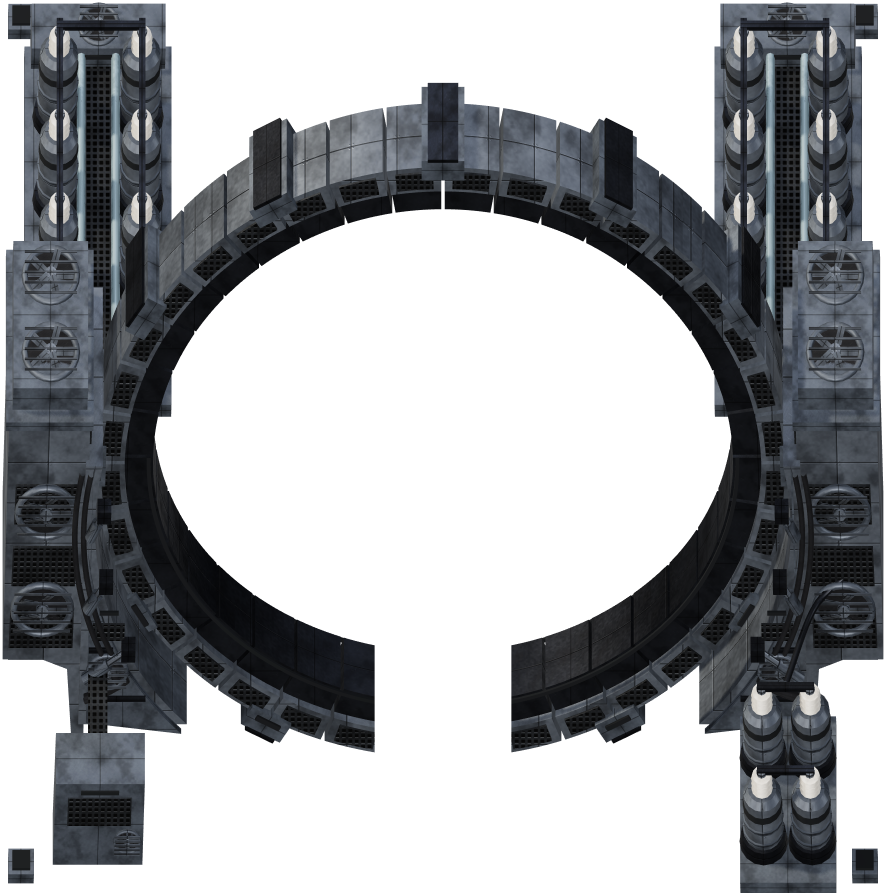
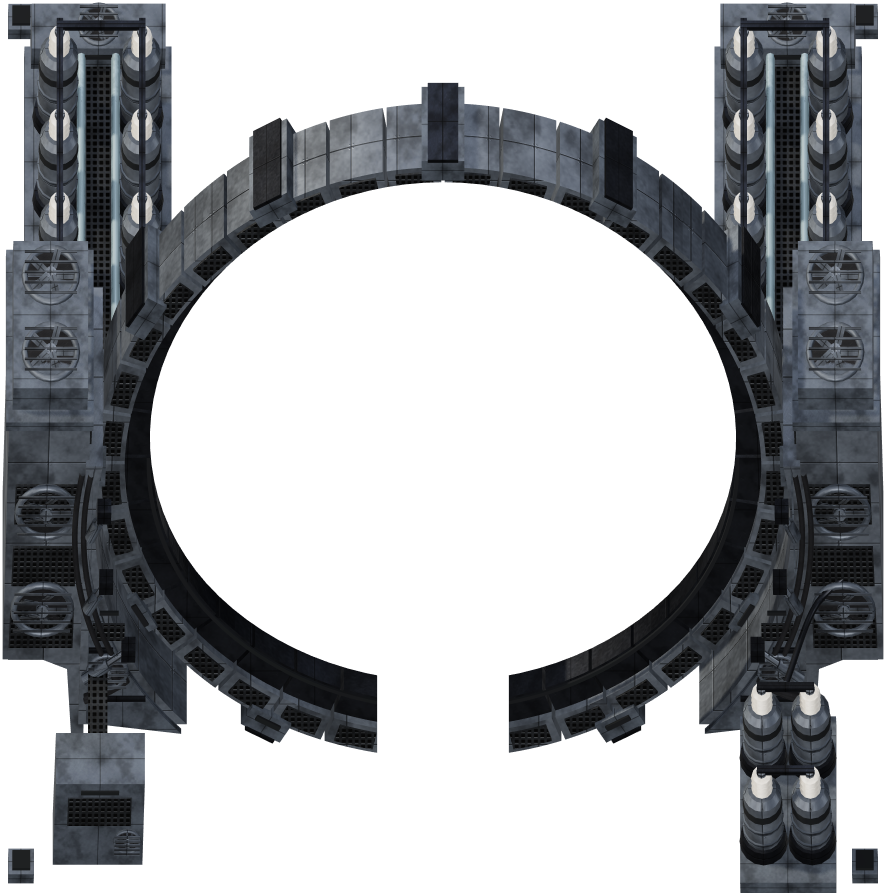
Stargate: station track look, veil and carriage flash fixes, direction chevrons, gate lights

Changed region(s): [[0.1524, 0.181, 0.8533, 0.8447]]

diff --git a/tools/sprites/lib/stargate-parts.js b/tools/sprites/lib/stargate-parts.js
@@ -81,10 +81,10 @@ export async function materials() {
     // The bed under the track: riveted dark steel deck plates, with grating between the rails.
     ballast: textured({ color: 0x2c2f34, panels: 3, rivets: true, grime: 0.3, scratches: 0.4, scale: 1, metalness: 0.65, roughness: 0.45, seed: 93 }),
     ballastInner: textured({ color: 0x383c42, holes: 10, grime: 0.3, scale: 1.2, metalness: 0.6, roughness: 0.5, seed: 94 }),
-    sleeper: textured({ color: 0x6f5426, grime: 0.45, scratches: 0.7, scale: 0.6, metalness: 0, roughness: 0.85, seed: 95 }),
+    sleeper: textured({ color: 0x55585c, grime: 0.45, scratches: 0.7, scale: 0.6, metalness: 0, roughness: 0.85, seed: 95 }),
     backplate: textured({ color: 0x77736e, grime: 0.4, rust: 0.2, scale: 1, metalness: 0.5, roughness: 0.6, seed: 96 }),
     // Matte enough that no rail catches a bright reflection where the light hits it.
-    rail: Object.assign(textured({ color: 0x7e8286, grime: 0.15, scratches: 0.3, scale: 1, metalness: 0.4, roughness: 0.7, seed: 97 }), { envMapIntensity: 0.4 }),
+    rail: Object.assign(textured({ color: 0x5f9cc0, grime: 0.15, scratches: 0.3, scale: 1, metalness: 0.4, roughness: 0.7, seed: 97 }), { envMapIntensity: 0.4 }),
     redSteel: textured({ color: 0x5e221c, panels: 1, grime: 0.4, rust: 0.1, scratches: 0.35, scale: 1, metalness: 0.45, roughness: 0.55, seed: 99 }),
     frost: textured({ color: 0xa9c4cf, panels: 1, grime: 0.15, scratches: 0.2, scale: 1, metalness: 0.55, roughness: 0.3, seed: 91 }),
     glow: Object.assign(new THREE.MeshStandardMaterial({ color: 0x0c2b33, emissive: CYAN, emissiveIntensity: 1.4, roughness: 0.4 }), {
@@ -316,8 +316,11 @@ const GAUGE = 0.5625;
 
 // The track's height on its ramp: level with the ground at the gate's edge, rising gently to
 // RAMP_TOP at the ring, so it crosses the basin and the ring's lower arc above them.
-const RAMP_TOP = 0.45;
-const trackHeight = (z) => lerp(GROUND, RAMP_TOP, (HALF - z) / (HALF - TRACK_END));
+const RAMP_TOP = DECK + 0.05;
+const trackHeight = (z) => lerp(GROUND, RAMP_TOP, Math.min(1, (HALF - z) / (HALF - TRACK_END)));
+// Where the track ends behind the ring: level at RAMP_TOP through the ring and on behind it, far
+// enough that the ring's upper part hides its end on screen.
+const TRACK_FAR = RING_Z - 5.406;
 
 /**
  * Track along lane `x` after the game's rail ramps, tagged `userData.track = x`: a riveted steel deck
@@ -327,11 +330,12 @@ const trackHeight = (z) => lerp(GROUND, RAMP_TOP, (HALF - z) / (HALF - TRACK_END
  * rails join it, over the basin and the ring's lower arc into the ring.
  */
 function laneTrack(root, m, x) {
-  // Unshadowed, so both lanes look alike: in game the gate's shadow layer falls over the track anyway.
-  const add = (mesh) => { mesh.userData.track = x; mesh.userData.unshadowed = true; return mesh; };
+  // Its own layer is rendered with the building hidden (models/stargate.js), so the track shades only
+  // itself and both lanes look alike: in game the gate's shadow layer falls over it anyway.
+  const add = (mesh) => { mesh.userData.track = x; return mesh; };
   const step = 0.25;
   const base = (z) => Math.min(floorHeight(x, z), trackHeight(z)) - 0.05;
-  for (let z = TRACK_END; z < HALF - 0.001; z += step) {
+  for (let z = TRACK_FAR; z < HALF - 0.001; z += step) {
     const zc = z + step / 2;
     const top = trackHeight(zc);
     // The core under the track, set back between the trusses so it reads as shadowed structure.
@@ -341,7 +345,7 @@ function laneTrack(root, m, x) {
   // wide with a raised inner bed 1.15 wide, ties 1.5 long and 0.16 thick every 0.406, backplates and
   // rail heads 0.5625 either side of the centre.
   const along = (top, w, h, material) => {
-    for (let z = TRACK_END; z < HALF - 0.001; z += step) {
+    for (let z = TRACK_FAR; z < HALF - 0.001; z += step) {
       const zc = z + step / 2;
       add(part(root, new THREE.BoxGeometry(w, h, step + 0.01), material, [x, trackHeight(zc) + top - h / 2, zc]));
     }
@@ -351,21 +355,21 @@ function laneTrack(root, m, x) {
   // Steel lips along the deck's edges, with a cyan marker stud every tile.
   for (const side of [-1, 1]) {
     const lip = [];
-    for (let z = TRACK_END; z <= HALF + 0.001; z += 0.25) lip.push([x + side * 0.98, trackHeight(z) + 0.07, z]);
+    for (let z = TRACK_FAR; z <= HALF + 0.001; z += 0.25) lip.push([x + side * 0.98, trackHeight(z) + 0.07, z]);
     add(tube(root, lip, 0.04, m.plate, 48));
-    for (let z = HALF - 0.5; z > TRACK_END + 0.3; z -= 1) {
+    for (let z = HALF - 0.5; z > TRACK_FAR + 0.3; z -= 1) {
       add(part(root, new THREE.BoxGeometry(0.08, 0.03, 0.14), m.glow, [x + side * 0.86, trackHeight(z) + 0.065, z]));
     }
   }
   // From the gate's edge inwards, the first tie flush with it; tall enough to read as blocks with
   // shaded sides.
-  for (let z = HALF - 0.08; z > TRACK_END + 0.08; z -= 0.406) {
+  for (let z = HALF - 0.08; z > TRACK_FAR + 0.08; z -= 0.406) {
     add(part(root, new THREE.BoxGeometry(1.5, 0.1, 0.16), m.sleeper, [x, trackHeight(z) + 0.1, z]));
   }
   for (const dx of [-GAUGE, GAUGE]) {
     const plates = [], heads = [];
     // Run a little past the edge: raised above the deck, they would otherwise end short of it on screen.
-    for (let z = TRACK_END; z <= HALF + 0.21; z += 0.25) {
+    for (let z = TRACK_FAR; z <= HALF + 0.21; z += 0.25) {
       plates.push([x + dx, trackHeight(z) + 0.13, z]);
       heads.push([x + dx, trackHeight(z) + 0.17, z]);
     }
@@ -373,12 +377,13 @@ function laneTrack(root, m, x) {
     add(tube(root, heads, 0.035, m.rail, 64));
   }
   // The side trusses: a top chord level with the ballast, a bottom chord on the floor, posts every
-  // tile, and a diagonal in each bay.
-  for (const dx of [-1, 1]) {
+  // tile, and a diagonal in each bay. Off while trying the track without them.
+  const TRUSSES = false;
+  for (const dx of TRUSSES ? [-1, 1] : []) {
     const sx = x + dx;
     const chord = (y) => {
       const points = [];
-      for (let z = TRACK_END; z <= HALF - 0.6 + 0.001; z += 0.25) points.push([sx, y(z), z]);
+      for (let z = TRACK_FAR; z <= HALF - 0.6 + 0.001; z += 0.25) points.push([sx, y(z), z]);
       add(tube(root, points, 0.07, m.redSteel, 48));
     };
     chord((z) => trackHeight(z) + 0.06);
@@ -396,8 +401,36 @@ function laneTrack(root, m, x) {
   }
 }
 
+// Direction chevrons for a two-track station: low steel plates on the concrete either side of each
+// lane, pointing the way its trains run. Tagged `userData.chevrons` with the layout they belong to:
+// "right" has trains leave on the east lane (x = +2) and arrive on the west, "left" the reverse
+// (stargate/scripts/railway.lua LAYOUTS).
+const CHEVRON = { offset: 1.32, arm: 0.3, width: 0.08, height: 0.07, rows: [6.45, 5.45, 4.6] };
+function chevrons(root, m) {
+  for (const layout of ["right", "left"]) {
+    for (const lane of TRACK_LANES.double) {
+      const departs = (lane > 0) === (layout === "right");
+      // North (-z, into the ring) on the departure lane, south on the arrival lane.
+      const dir = departs ? -1 : 1;
+      for (const side of [-1, 1]) for (const z of CHEVRON.rows) {
+        const x = lane + side * CHEVRON.offset;
+        const y = floorHeight(x, z) + CHEVRON.height / 2;
+        for (const s of [-1, 1]) {
+          // Each arm runs from the tip back and out to one side at 45 degrees, centred on the row so
+          // chevrons pointing either way line up.
+          const h = CHEVRON.arm / Math.SQRT2 / 2;
+          const mesh = part(root, new THREE.BoxGeometry(CHEVRON.arm, CHEVRON.height, CHEVRON.width), m.plate,
+            [x + s * h, y, z], [0, s * dir * Math.PI / 4, 0]);
+          mesh.userData.chevrons = layout;
+        }
+      }
+    }
+  }
+}
+
 function tracks(root, m, lanes) {
   for (const x of lanes) laneTrack(root, m, x);
+  if (lanes.some((x) => TRACK_LANES.double.includes(x))) chevrons(root, m);
 }
 
 /** Floor lights at the corners. */
@@ -663,7 +696,7 @@ export function drawSplash(root, t) {
   const image = ctx.createImageData(VEIL_SIZE, VEIL_SIZE);
   // A carriage behind the veil, about to vanish or just appeared, fills its lane's column of the
   // veil on screen from the deck nearly to the ring's top (5.2 tiles long, 1.6 high, seen at 50
-  // degrees), so the glow covers that column, a little wider than the carriage (unit disc, y down),
+  // degrees), so the glow covers that column, wider than the carriage (unit disc, y down),
   // centred a quarter of a carriage below the veil's centre, where the change shows most.
   const oy = 0.39;
   const flare = Math.exp(-(((t - 0.25) / 0.16) ** 2));
@@ -673,14 +706,16 @@ export function drawSplash(root, t) {
     for (let px = 0; px < VEIL_SIZE; px++) {
       const x = (px + 0.5) / VEIL_SIZE * 2 - 1;
       const y = (py + 0.5) / VEIL_SIZE * 2 - 1;
-      // A tall rounded column, about two tiles wide, the whole height of the veil.
-      const d = Math.hypot(x / 0.24, ((y - oy) / 0.95) ** 2);
-      let v = Math.exp(-d * d * 1.5) * (0.15 + 0.5 * flare);
-      v += Math.exp(-(((d * 0.2 - ring) / 0.035) ** 2)) * 0.45 * fade * Math.min(1, t * 6);
+      // A tall soft column whose light thins out gradually instead of ending at a visible edge.
+      const d = Math.hypot(x / 0.5, (y - oy) / 1.8);
+      const body = Math.exp(-d * d * 1.5);
+      let v = body * (0.15 + 0.5 * flare);
+      v += Math.exp(-(((d * 0.2 - ring) / 0.08) ** 2)) * 0.45 * fade * Math.min(1, t * 6) * Math.min(1, body * 4);
       v *= fade;
-      // Inside the veil only, as the carriage vanishes and appears only there.
-      const rim = Math.max(0, Math.min(1, (1 - Math.hypot(x, y)) * 40));
-      v = 1.4 * Math.tanh(v / 1.4) * rim;
+      // Inside the veil only, as the carriage vanishes and appears only there, fading out over the
+      // veil's outer quarter rather than cut at its rim.
+      const edge = Math.max(0, Math.min(1, (1 - Math.hypot(x, y)) / 0.25));
+      v = 1.4 * Math.tanh(v / 1.4) * edge * edge * (3 - 2 * edge);
       const i = (py * VEIL_SIZE + px) * 4;
       image.data[i] = Math.min(255, 255 * (0.35 * v + 0.6 * Math.max(0, v - 0.6)));
       image.data[i + 1] = Math.min(255, 255 * (0.75 * v));

diff --git a/tools/sprites/models/stargate.js b/tools/sprites/models/stargate.js
@@ -60,7 +60,7 @@ const OPENING_FRAMES = 30;
 const CLOSING_FRAMES = 18;
 // The passage plays once over two loops (128 ticks in game, scripts/transfer.lua TRANSIT_TICKS).
 const PASSAGE_FRAMES = 32;
-const SPLASH_FRAMES = 16;
+const SPLASH_FRAMES = 32;
 
 export default {
   tiles: [14, 14],
@@ -91,6 +91,9 @@ export default {
     // (stargate/scripts/railway.lua); hidden from every other layer.
     { name: "rails-single", tag: "rails", variant: "rails-single", frames: 1 },
     { name: "rails-double", tag: "rails", variant: "rails-double", frames: 1 },
+    // The two-track station's direction chevrons, one picture per layout, drawn over its track.
+    { name: "chevrons-right", tag: "rails", variant: "chevrons-right", frames: 1 },
+    { name: "chevrons-left", tag: "rails", variant: "chevrons-left", frames: 1 },
     // The building with the track cut out where it passes over the ring's lower arc into the ring,
     // so the track (drawn under the building) shows there: main for a station gate.
     { name: "main-single", tag: "body", variant: "body-single", frames: 1 },
@@ -100,7 +103,7 @@ export default {
     { name: "glow-lights-double", tag: "light", glow: true, variant: "lights-double", frames: 1 },
     { name: "glow-lights-red-single", tag: "light", glow: true, variant: "alarm-single", frames: 1 },
     { name: "glow-lights-red-double", tag: "light", glow: true, variant: "alarm-double", frames: 1 },
-    // One train carriage passing the veil, drawn by scripts/railway.lua at its lane, 16 frames at 2 ticks.
+    // One train carriage passing the veil, drawn by scripts/railway.lua at its lane, 32 frames at 2 ticks.
     { name: "glow-splash", tag: "veil", glow: true, variant: "splash", frames: SPLASH_FRAMES, span: 0.5 },
     // Drawn over the veil by script while someone passes through.
     { name: "glow-passage", tag: "veil", glow: true, variant: "passage", frames: PASSAGE_FRAMES, span: 2, preview: { variant: "passage" } }
@@ -156,11 +159,21 @@ export default {
       const body = String(name).startsWith("body-");
       // A station's lights: "lights-<mode>" cyan, "alarm-<mode>" red.
       const station = /^(lights|alarm)-(single|double)$/.exec(String(name));
-      if (track !== undefined) {
+      const chevrons = mesh.userData.chevrons;
+      if (chevrons !== undefined) {
+        // Only in its own layer: flat on the floor, it hides nothing in the building.
+        mesh.visible = name === `chevrons-${chevrons}`;
+        if (mesh.visible) mesh.material = mesh.userData.railMaterial ??= Object.assign(mesh.material.clone(), { userData: { tag: "rails" } });
+      } else if (String(name).startsWith("chevrons-")) {
+        mesh.visible = false;
+      } else if (track !== undefined) {
         // Shown in its own layer, and untagged in the building's and the lights', where it hides them.
         const mode = String(name).startsWith("rails-") ? String(name).slice(6) : body ? String(name).slice(5) : station?.[2];
         mesh.visible = (TRACK_LANES[mode] ?? []).includes(track);
         if (mesh.visible && !body && !station) mesh.material = mesh.userData.railMaterial ??= Object.assign(mesh.material.clone(), { userData: { tag: "rails" } });
+      } else if (String(name).startsWith("rails-")) {
+        // The track's own layer: nothing else, so no part of the building shadows it.
+        mesh.visible = false;
       } else if (station) {
         if (light) mesh.material = lightMaterial(mesh.material, station[1] === "lights" ? "cyan" : "alarm");
       } else if (body) {
@@ -183,8 +196,17 @@ export default {
         mesh.material = lightMaterial(mesh.material, String(name));
       }
     });
+    // A station gate's building is cut wherever the veil's disc lies on screen, so the open veil
+    // shows its whole oval over the track and the ring's lower arc alike, whichever the game draws
+    // first (render.js `cutsLayers`).
+    const station = /^body-(single|double)$/.test(String(name));
     root.traverse((object) => {
-      if (object.isMesh && object.userData.original?.userData.tag === "veil") object.visible = VEILS.includes(name) || name === "passage" || name === "splash";
+      if (!object.isMesh || object.userData.original?.userData.tag !== "veil") return;
+      object.visible = VEILS.includes(name) || name === "passage" || name === "splash" || station;
+      if (station) {
+        object.material = object.userData.cutMaterial ??= Object.assign(object.material.clone(), { userData: { cutsLayers: true } });
+        object.renderOrder = -10;
+      }
     });
     // The passage is drawn whole, by script.
     root.userData.veil.material.clippingPlanes = !VEILS.includes(name) ? null : name.endsWith("-high") ? topClip : lowClip;

diff --git a/tools/sprites/stargate-showcase.html b/tools/sprites/stargate-showcase.html
@@ -263,6 +263,8 @@ function frame(dt) {
   if (metas[model].sheets.floor) sheet(model, "floor");
   // Station-mode track (a companion just above the floor in game), only on the finished gate.
   if (finished && !state.building && state.rails !== "off" && metas[model].sheets[`rails-${state.rails}`]) sheet(model, `rails-${state.rails}`);
+  // Two tracks run as scripts/railway.lua's "right" layout: trains leave on the east lane.
+  if (finished && !state.building && state.rails === "double" && metas[model].sheets["chevrons-right"]) sheet(model, "chevrons-right");
   if ($("shadow").checked) sheet(model, "shadow");
 
   // A station gate's building has its track cut out where it runs over the ring's lower arc.
@@ -331,7 +333,7 @@ function frame(dt) {
 
 // A train through a station gate, as scripts/railway.lua runs it: four carriages (a locomotive and
 // three wagons, 7 tiles apart) driven north up the departure lane at 0.3 tiles a tick, each vanishing
-// once it is wholly behind the veil, with a splash (glow-splash, 16 frames at 2 ticks) and the
+// once it is wholly behind the veil, with a splash (glow-splash, 32 frames at 2 ticks) and the
 // stargate-car-in sound at its lane; then at the partner (this gate standing in for it) each appears
 // behind the veil on the arrival lane with a splash and stargate-car-out and drives out south.
 const TRAIN = { cars: 4, spacing: 7, length: 5.2, speed: 18, height: 1.6 };
@@ -351,11 +353,17 @@ function trainCars(now) {
   let departed = 0;
   for (let i = 0; i < TRAIN.cars; i++) {
     const front = front0 + i * TRAIN.spacing, rear = front + TRAIN.length;
+    // Each splash peaks 16 ticks after it starts, as in scripts/railway.lua: the departing one when
+    // the carriage's centre passes the ring (drawn behind it from then on), the arriving one when
+    // its rear does and it is sent.
+    const lead = TRAIN.speed * 16 / 60;
+    if ((front + rear) / 2 <= RING_Z + TRAIN.speed * 11 / 60 && tr.flash[i] === undefined) { tr.flash[i] = now; sound("car-in"); }
+    if (rear <= RING_Z + lead && tr.come[i] === undefined) { tr.come[i] = now; sound("car-out"); }
+    if (tr.flash[i] !== undefined && now - tr.flash[i] < 1.1) splashes.push({ x: lanes.depart, since: now - tr.flash[i] });
+    if (tr.come[i] !== undefined && now - tr.come[i] < 1.1) splashes.push({ x: lanes.arrive, since: now - tr.come[i] });
     if (rear <= RING_Z) {
       departed++;
       tr.gone[i] ??= now;
-      if (!tr.goneSound[i]) { tr.goneSound[i] = true; sound("car-in"); }
-      splashes.push({ x: lanes.depart, since: now - tr.gone[i] });
     } else cars.push({ x: lanes.depart, front, rear, loco: i === 0 });
   }
   // Arrival: carriage i appears when the departure side sent it, behind the veil (front at the
@@ -363,13 +371,9 @@ function trainCars(now) {
   for (let i = 0; i < TRAIN.cars; i++) {
     const sent = tr.gone[i];
     if (sent === undefined) continue;
-    const since = now - sent - 0.4;
-    if (since < 0) continue;
-    if (!tr.cameSound[i]) { tr.cameSound[i] = true; sound("car-out"); }
     // Coupled behind the carriage before it: it appears where that one was one spacing ago.
-    const lead = now - tr.gone[0] - 0.4;
+    const lead = now - tr.gone[0];
     const front = -5 + lead * TRAIN.speed - i * TRAIN.spacing;
-    if (since < 0.6) splashes.push({ x: lanes.arrive, since });
     if (front < 16) cars.push({ x: lanes.arrive, front: front + TRAIN.length, rear: front, loco: i === 0, out: true });
   }
   if (departed === TRAIN.cars && tr.gone[TRAIN.cars - 1] !== undefined && now - tr.gone[TRAIN.cars - 1] > 2.5) state.train = null;
@@ -464,7 +468,7 @@ document.querySelectorAll("[data-gate]").forEach((b) => b.onclick = () => setGat
 document.querySelectorAll("[data-rails]").forEach((b) => b.onclick = () => { state.rails = b.dataset.rails; refreshButtons(); });
 $("build").onclick = () => { state.building = state.time; state.transfer = null; refreshButtons(); };
 $("transfer").onclick = () => { state.transfer = { at: state.time }; };
-$("train").onclick = () => { state.train = { at: state.time, gone: [], goneSound: [], cameSound: [] }; };
+$("train").onclick = () => { state.train = { at: state.time, gone: [], flash: [], come: [] }; };
 $("pause").onclick = () => { state.paused = !state.paused; $("pause").textContent = state.paused ? "▶" : "⏸"; };
 
 load().then(() => { refreshButtons(); requestAnimationFrame(tick); window.previewReady = true; })

diff --git a/stargate/tests/prototypes.py b/stargate/tests/prototypes.py
@@ -187,16 +187,18 @@ def check_buildings(t):
         # Never drawn: the gate draws its own track on a ramp (bte-stargate-tracks).
         t.check("station rail is drawn under the ground", set(layers.values()), {"zero"})
     splash = t.raw.get("animation", {}).get("bte-stargate-splash")
-    t.check("each train carriage's splash exists, 16 frames", splash and splash.get("frame_count"), 16)
+    t.check("each train carriage's splash exists, 32 frames", splash and splash.get("frame_count"), 32)
     tracks = t.prototype("simple-entity-with-owner", "bte-stargate-tracks")
     t.check("station track companion exists", tracks is not None, True)
     if tracks:
         t.check("station track is drawn above the floor, under trains", tracks.get("render_layer"), "floor-mechanics")
         t.check("station track collides with nothing", tracks.get("collision_mask", {}).get("layers"), {})
-        t.check("station track has one and two tracks",
-                [v["layers"][0]["filename"].rsplit("stargate-", 1)[-1] for v in tracks.get("pictures", [])], ["rails-single.png", "rails-double.png"])
+        t.check("station track has one track, and two with chevrons for either layout",
+                [[layer["filename"].rsplit("stargate-", 1)[-1] for layer in v["layers"]] for v in tracks.get("pictures", [])],
+                [["rails-single.png"], ["rails-double.png", "chevrons-right.png"], ["rails-double.png", "chevrons-left.png"]])
         for v in tracks.get("pictures", []):
-            t.sprite_sheet("station track", v["layers"][0])
+            for layer in v["layers"]:
+                t.sprite_sheet("station track", layer)
     hidden = t.prototype("straight-rail", "bte-stargate-rail-hidden")
     if hidden:
         t.check("hidden rail is drawn under the ground", set(hidden.get("pictures", {}).get("render_layers", {}).values()), {"zero"})

diff --git a/AGENTS.md b/AGENTS.md
@@ -37,7 +37,7 @@ Each implemented mod directory is a complete Factorio mod root. The two planned 
 - `scripts/gate.lua`: gate records in `storage.gates` (name, partner, on/off), mutual pairing, enabling by script, and character transfer.
 - `scripts/transfer.lua`: a traveller's trip through a gate (a character; a car, tank, or spidertron, teleported whole with its crew, which a cross-surface teleport keeps seated; or a unit or spider-unit, which cannot be teleported across surfaces and travels as clones; non-characters wait `disabled_by_script` on their own spot in limbo, and run out by `speed`, autopilot, or a `go_to_location` command; a destination whose surface conditions the traveller fails is refused; a remote driver, a `LuaPlayer` from `get_driver()`, is ejected on departure with its remote view reset, since its camera otherwise followed the tank or spidertron into limbo; movement keys still held then pan the remote view, which nothing fixes without a visible cost: remote view accepts no cutscene, pinning the view each tick looked jumpy, and a hidden frozen vehicle shows enter and leave messages; arrivals are not sent again for 300 ticks, `storage.arrived`, because a spidertron's body could settle in an open partner's portal and bounce straight back). For a character: 128 ticks on the hidden `bte-stargate-limbo` surface while its player watches the gate in a cutscene (which holds the camera and ignores movement keys; a spectator controller let the keys pan the view) and the `bte-stargate-passage` animation (the model's `glow-passage` layer, `drawPassage()`) plays over the veil, then 64 ticks at the partner while `bte-stargate-arrival` (the passage with a reversed `frame_sequence`, at double speed) plays there; to move the cutscene camera across surfaces the character is briefly taken out of limbo to the arrival surface, a new cutscene started, and the character returned to limbo, all in one tick; then arrival in front of the partner and a five-tile run out of the ring (`walking_state` set every tick under a second cutscene that follows the character; with the player's own controller its input overrode the script and the run fell short). The arrival sound waits a few ticks after the cutscene camera has moved to the arrival surface (played in that same tick it was not heard), and goes to the traveller with `LuaPlayer.play_sound` without a position and to other players on that surface at the gate. `on_cutscene_cancelled` and `on_cutscene_finished` complete the trip early. A cutscene started straight after `exit_cutscene()` had no character to return to and left the player a bodiless camera, so every cutscene exit hands the character back with `set_controller` explicitly, first moving it to the player's surface, which `set_controller` requires (a character still in limbo raised an error). `exit_cutscene()` raises `on_cutscene_cancelled` synchronously, so the script's own exits set `storage.leaving_cutscene` for the handler to ignore; without it the handler finished the trip inside the arrival step and stranded the character in limbo.
 - `scripts/destinations.lua`: random destinations for unpaired gates: nothing stored: a planet counts as visited when the force has charted the chunk at its spawn position, and on one picked at random the uncharted chunk nearest the force's spawn position, found by square rings out to 256 chunks and generated on the spot.
-- `scripts/railway.lua`: station mode (`record.railway`: `single`, `right`, `left`): places `bte-stargate-rail` pieces and `bte-stargate-rail-hidden` behind the ring (both drawn on `zero`, under the ground: the visible track is the `bte-stargate-tracks` companion, from the model's `rails-single`/`rails-double` layers, on a ramp over the ring's lower arc; `scripts/gate.lua` `show_body` then gives the body the matching `main-<mode>` and `glow-lights[-red]-<mode>` variation, with the track cut out of the building and its lamps hidden behind it; trains drive behind the veil before vanishing and arrive from behind it), and the hidden `bte-stargate-station` at the gate's south edge (`prototypes/rails.lua`), takes trains whose front reaches the ring on the departure lane, and sends them carriage by carriage (disconnect, `rotate()`, `clone` to the partner's arrival lane, destroy; each carriage plays `bte-stargate-splash`, the model's `glow-splash` drawn at the lane's x offset, and the `stargate-car-in`/`-out` sounds on both gates), pushing both halves at a fixed speed each tick, then restores the schedule (groups, interrupts, temporary stops; `rail` records dropped; the gate's own stop skipped) on the complete train. Adapted from RiftRail (`../factorio-rift-rail`, MIT); differences in `stargate/PLAN.md`.
+- `scripts/railway.lua`: station mode (`record.railway`: `single`, `right`, `left`): places `bte-stargate-rail` pieces and `bte-stargate-rail-hidden` behind the ring (both drawn on `zero`, under the ground: the visible track is the `bte-stargate-tracks` companion, from the model's `rails-single`/`rails-double` layers, the two-track pictures adding `chevrons-right` or `chevrons-left`, steel arrows on the concrete pointing each lane's direction, on a ramp over the ring's lower arc; `scripts/gate.lua` `show_body` then gives the body the matching `main-<mode>` and `glow-lights[-red]-<mode>` variation, with the track cut out of the building and its lamps hidden behind it; trains drive behind the veil before vanishing and arrive from behind it), and the hidden `bte-stargate-station` at the gate's south edge (`prototypes/rails.lua`), takes trains whose front reaches the ring on the departure lane, and sends them carriage by carriage (disconnect, `rotate()`, `clone` to the partner's arrival lane, destroy; each carriage plays `bte-stargate-splash`, the model's `glow-splash` drawn at the lane's x offset, and the `stargate-car-in`/`-out` sounds on both gates), pushing both halves at a fixed speed each tick, then restores the schedule (groups, interrupts, temporary stops; `rail` records dropped; the gate's own stop skipped) on the complete train. Adapted from RiftRail (`../factorio-rift-rail`, MIT); differences in `stargate/PLAN.md`.
 - `scripts/gui.lua`: the gate window that replaces the assembling-machine GUI; for a station gate it opens the station's train stop window instead and attaches itself to its right as a relative GUI.
 - `scripts/power_bank.lua`: a verbatim copy of Warp Drive's power bank (see Mod Independence).
 - `prototypes/`: `rails.lua` (station mode's script-only rail, on the `rail` collision layer alone, and invisible train stop), `construction.lua` (the site's bill of materials, build time, and stage count, as plain data; the kit's ingredients are in `recipes.lua`), `items.lua`, `entities.lua`, `recipes.lua`, `technologies.lua`. `data-final-fixes.lua` lays out the site's slots from final stack sizes and publishes the plan to the runtime as a `mod-data` prototype.

diff --git a/stargate/PLAN.md b/stargate/PLAN.md
@@ -145,7 +145,7 @@ Train passage is part of standalone Stargate, developed after reliable paired pl
 - Start waits for a free arrival lane, so a train that cannot go stays under its schedule instead of being held in manual mode.
 - Single-track mode: arrivals are guarded for 300 ticks (`storage.rail_guard`) and only northbound or stopped trains are taken, so an arrival on the shared lane is never sent back.
 - Measured (headless): a station at the ring's cell stops a train with its front 0.4 short of the ring's plane; clones auto-couple when placed exactly one coupling length (`(joint_distance + connection_distance) / 2` per car, 7 for vanilla) behind the previous one, even with 0.37 tiles of overshoot; a locomotive with its front at the rail end has its centre 3.5 tiles from it.
-- Visibility: vanilla rail layers are all below `floor`, where the gate's concrete is drawn. The game's rails are therefore never drawn (`render_layers` all `zero`); the gate draws its own track on a ramp (a riveted steel deck with grating between the rails, the game's tie and rail sizes and gauge measured from its rail sheets, red side trusses and foot blocks after the vanilla rail ramp, cyan edge studs; rendered without sun shadow so both lanes match, `userData.unshadowed`) from its edge over the ring's lower arc an eighth of a tile into the ring (`lib/stargate-parts.js` `laneTrack`), as the `bte-stargate-tracks` companion on `floor-mechanics`, while the body switches to a picture with the track cut out where it crosses the arc and lights hidden behind it (6 variations: none, one, two tracks; cyan, red). Track continues behind the ring to 5 tiles north of the centre as `bte-stargate-rail-hidden`, drawn on `zero` under the ground: a carriage is taken once its rear passes the ring's plane, and arrivals appear there behind the partner's veil. The station is at the gate's south edge (a waiting train's front 0.6 inside it); a train is taken when its front crosses the edge.
+- Visibility: vanilla rail layers are all below `floor`, where the gate's concrete is drawn. The game's rails are therefore never drawn (`render_layers` all `zero`); the gate draws its own track on a ramp (a riveted steel deck with grating between the rails, grey ties and light blue rails at the game's sizes and gauge measured from its rail sheets, cyan edge studs; it runs on through the ring until the ring's upper part hides its end; its layer is rendered with the building hidden so both lanes are shaded alike) from its edge over the ring's lower arc an eighth of a tile into the ring (`lib/stargate-parts.js` `laneTrack`), as the `bte-stargate-tracks` companion on `floor-mechanics`, while the body switches to a picture with the track cut out where it crosses the arc and lights hidden behind it (6 variations: none, one, two tracks; cyan, red). Track continues behind the ring to 5 tiles north of the centre as `bte-stargate-rail-hidden`, drawn on `zero` under the ground: a carriage is taken once its rear passes the ring's plane, and arrivals appear there behind the partner's veil. The station is at the gate's south edge (a waiting train's front 0.6 inside it); a train is taken when its front crosses the edge.
 - Upgrades: `record.rail_layout` (`LAYOUT`) marks the layout version; `Railway.check` adds missing pieces and moves the station for older gates without removing rails under a train. A reinstall with the same mod version raises no `on_configuration_changed`, which is why it is checked there (a gate built before the hidden rails left trains grinding against the old rail end in the ring).
 - Layout: the gate never rotates, so lanes are always north-south, trains enter northbound and leave southbound. Rails at the lane's x, centres 2, 4, 6 tiles south of the gate's centre (ending one tile north of the ring's plane, at the cell edge), on the `rail` collision layer only so they fit the gate's mask; the station has no collision box.
 - GUI: the gate opens the station's native train stop window (`player.opened = station`, which works although the stop is not selectable) with the gate window as a relative GUI anchored to the right of `train_stop_gui`, filtered to `bte-stargate-station`.
